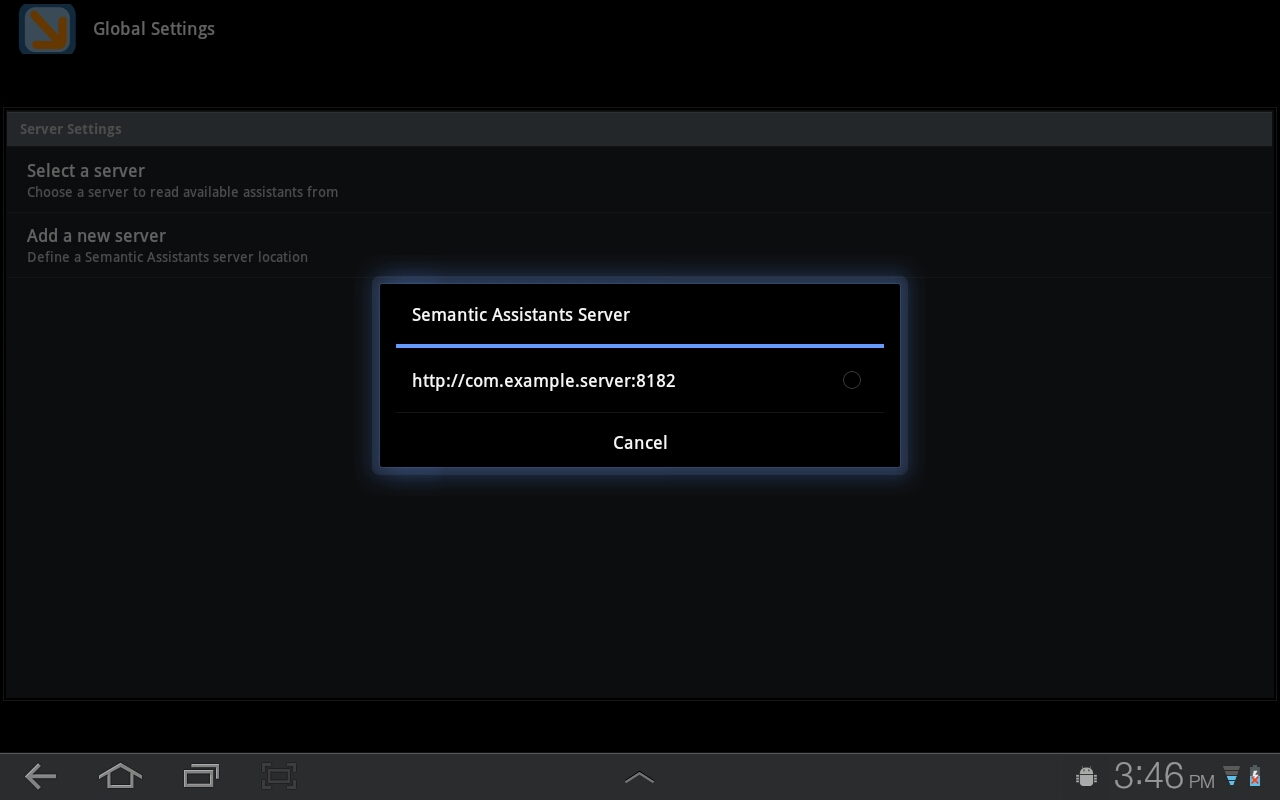
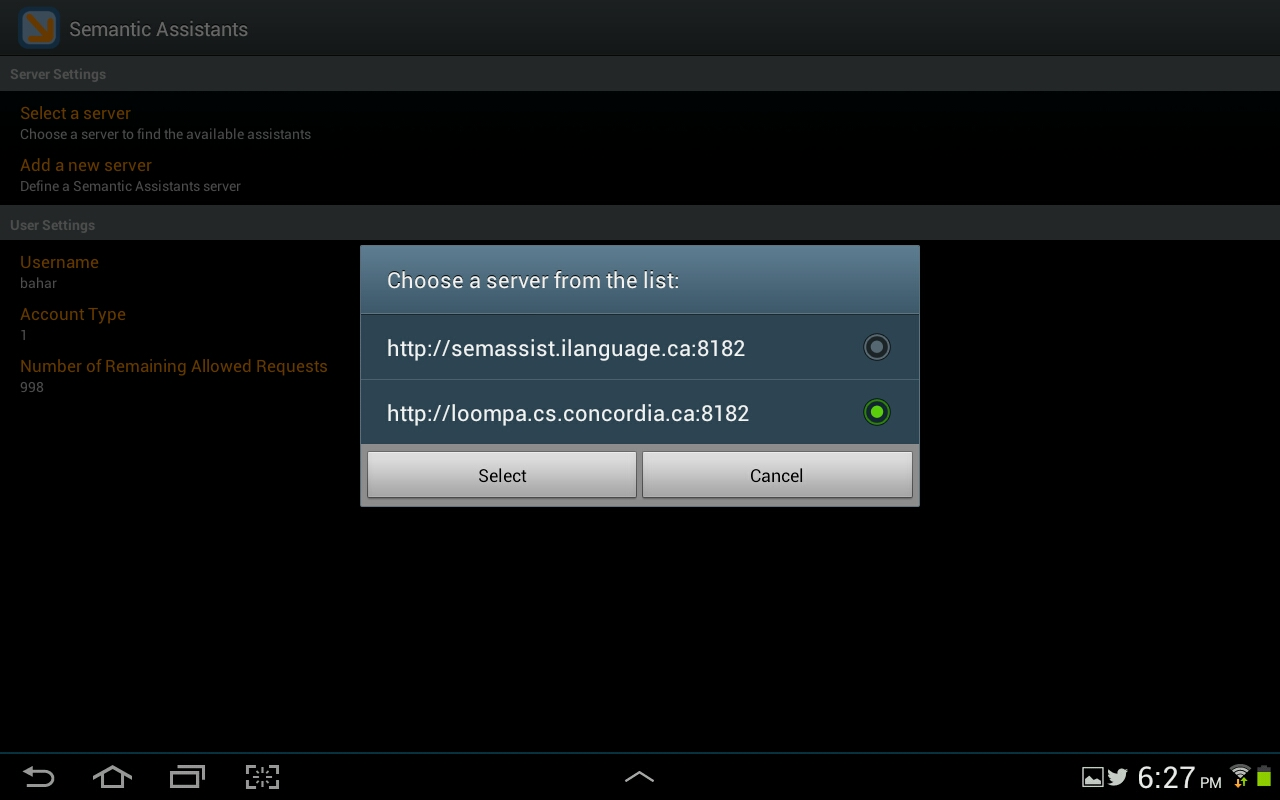
Updated screenshots, added installations details #369

diff --git a/Doc/semassist_android.tex b/Doc/semassist_android.tex
@@ -24,14 +24,14 @@ In the following sections, we describe the \sa App features and provide a guide 
 \section{Features}
 The user interface shown in Figure~\ref{fig:android_main} is the \sa main activity (user interface). This means that once the app is installed on the device, this is the main entry to the application. It allows users to connect to a specific \sa server and invoke an assistant on the provided text input.
 
-\begin{figure}[htb]
+\begin{figure}
 \centering
 \includegraphics[scale=0.35]{pictures/android_main.jpg}
 \caption{\sa Android App Main Activity}
 \label{fig:android_main}
 \end{figure}
 \subsection{\sa Account}
-Each android-enabled device has at least one built-in account type, i.e., the Google account. Android is designed in such a way that the same account can be registered to a variety of account-based services. For example, the Gmail account that is set up on the Android device is not just used for e-mailing , but for all the Google account-based applications. The same concept applies to the \sa App that uses the \emph{\sa account} type for its applications. Just like another accounts, you first need to sign up for a \sa Account before using the application.
+Each android-enabled device has at least one built-in account type, i.e., the Google account. Android is designed in such a way that the same account can be registered to a variety of account-based services. For example, the Gmail account that is set up on the Android device is not just used for e-mailing , but for all the Google account-based applications, like Picasa. The same concept applies to the \sa App that uses the \emph{\sa account} type for its applications. Just like another accounts, you first need to sign up for a \sa Account before using the application.
 
 Once you have obtained your credentials, on your device browse to \texttt{Settings $\rightarrow$ Accounts and Sync $\rightarrow$ Add Account} and choose the ``\sa'' option from the list. In the provided user interface, type in your \sa accounts credentials and press \texttt{Sign in}. If authenticated successfully, your \sa account will appear in the list of your device accounts.
 
@@ -43,16 +43,16 @@ Once you have obtained your credentials, on your device browse to \texttt{Settin
 \label{sec:android_global_settings}
 Similar to other \sa clients, the \sa App allows users to connect to various arbitrary servers to inquire about their available assistants. On the \sa App main activity, press the \texttt{Global Settings} button. The application settings activity will pop up that allows you to define a new server location or choose one from a list of available servers as shown in Figure~\ref{fig:android_global_settings}.
 
-\begin{figure}[htb]
+\begin{figure}
 \centering
 \includegraphics[scale=0.35]{pictures/android_global_settings.jpg}
 \caption{\sa App Global Settings Activity}
 \label{fig:android_global_settings}
 \end{figure}
 
-In order to add a new server location, click on the \texttt{Add a new server} option and type in the server URL by concatenating the server address, including its protocol and port number, like in Figure~\ref{fig:android_new_server}. In order to choose the newly defined server, choose the \texttt{Select a server} option from the Global Settings activity and select it from the list.
+In order to add a new server location, click on the \texttt{Add a new server} option and type in the server URL including its protocol, as well as the port number, like in Figure~\ref{fig:android_new_server}. In order to choose the newly defined server, choose the \texttt{Select a server} option from the \texttt{Global Settings} activity and select it from the list.
 
-\begin{figure}[htb]
+\begin{figure}[b]
 \centering
 \includegraphics[scale=0.5]{pictures/android_new_server.jpg}
 \caption{Adding a new server to the \sa App settings}
@@ -60,7 +60,7 @@ In order to add a new server location, click on the \texttt{Add a new server} op
 \end{figure}
 
 \subsection{NLP Service Invocation}
-Once the \sa server is selected from the Global Settings activity, users can inquire about its available assistants. From the \sa App main activity, press the \texttt{Available Assistants} button to open the service invocation activity. This activity, as shown in Figure~\ref{fig:android_invoke_main}, presents the list of available assistants and an input text area for the text to be analyzed. By selecting each assistants from the list, the app will provide detailed information of what the assistant does and allows to customize the pipeline execution through providing runtime parameters.
+Once the \sa server is selected from the Global Settings activity, users can inquire about its available assistants. From the \sa App main activity, press the \texttt{Available Assistants} button to open the service invocation activity. This activity, as shown in Figure~\ref{fig:android_invoke_main}, presents the list of available assistants and an input text area for the text to be analyzed. By selecting each assistant from the list, the app will provide detailed information of what the assistant does and allows you to customize the pipeline execution through modifying the runtime parameters.
 
 \begin{figure}[htb]
 \centering
@@ -71,20 +71,33 @@ Once the \sa server is selected from the Global Settings activity, users can inq
 
 Users have three options on how to provide a pipeline with text input:
 \begin{itemize}
-\item{\textbf{Manually typing in the text. }}{Using the device keyboard, type in the text that is to be analyzed.}
-\item{\textbf{Sharing text with the \sa from other apps. }}{The \sa App listens for sharing event in the Android platform. This means that from within applications that provide a sharing mechanism, the selected text can be directly placed into the \sa Apps activity input.}
-\item{\textbf{Sending input to the \sa service. }}{As we will explain more in Section \ref{sec:android_service}, the text input can be sent via a service argument (extra). The difference between this option and the previous bullet is that in the sharing option, the \sa App takes care of the result handling instead of the invoking application. Also in this service invocations, the NLP service to be executed is pre-defined and cannot be changed at a later stage.}
+\item{\textbf{Manually typing in the text. }}{Using the device keyboard, type in the text that is to be analyzed, then invoke the desired assistant from the list.}
+\item{\textbf{Sharing text with the \sa from other apps. }}{The \sa App listens for sharing event in the Android platform. This means that from within applications that provide a sharing mechanism, the selected text can be directly placed into the \sa Apps activity input.
+
+In this option, copy the text you would like to analyze and choose the \texttt{Share} item from the contextual menu of the system. Then select the \texttt{Semantic Assistants} as the recipient of the shared text.}
+\item{\textbf{Sending input to the \sa service. }}{As we will explain more in Section \ref{sec:android_service}, the text input can be sent via a service argument (i.e., an Android \texttt{Extra} object). The difference between this option and the previous bullet is that in the sharing option, the \sa App takes care of the result handling instead of the application that originally requested the service. Also in this service invocation option, the NLP service to be executed is pre-defined (by the requesting app) and cannot be changed at a later stage.}
 \end{itemize}
-Once done with typing, select an assistants from the left-side list and press the \texttt{Invoke} button. Depending on the type of the results, you would either see the annotations in a new activity or the resulting file will be opened in the device browser.
+Once you selected the text for analysis, select an assistants from the left-side list and press the \texttt{Invoke} button to start the service execution. Depending on the type of the results, you would either see the annotations in a new activity or the resulting file will be opened in the device browser.
 
 \section{Installation}
-TBD
+The \sa app can be installed directly on your Android device through the Google Play store\footnote{Google Play Store~\url{https://play.google.com/store}} website. Browse to \url{https://play.google.com/store/apps/details?id=info.semanticsoftware.semassist.android} and press the ``Install'' button to download the app on to your device.
+
+Alternatively, you can download the signed \texttt{.apk} file from our public repository and copy it to your device, e.g. on your SD card. Then open the file in your device's file browser; the system will prompt you to install the app.
 
 \section{\sa App Service}
 \label{sec:android_service}
-As mentioned earlier, the \sa App also plays the role of a system-wide service provider, meaning that other external applications can use the \sa App's functionality. This is done through using Android services, i.e., application components that can perform long-running operations in the background. Each available service in the \sa App has a unique name that should be indicated when the external application invokes the service.
+As mentioned earlier, the \sa App also plays the role of a system-wide service provider, meaning that other external applications can use the \sa App's functionalities in their workflow. This is done through using Android \emph{services}, i.e., application components that can perform long-running operations in the background. Each available service in the \sa App has a unique name that should be indicated when the external application invokes the service.
 
-To better demonstrate this feature, we will illustrate a demo app that uses a \sa service. The demo in example, called iForgotWho, is an app that helps users to find potential ``contacts'' from a given text and upon user accept, automatically adds them to the device contact book. However, the iForgotWho app does not find the contacts by itself, rather it uses the \sa App's \texttt{person\_extractor} service. For this, the iForgotWho needs to (1) invoke the service using its complete identifier (available in the \sa App manifest file), (2) send along the text to be analyzed, and (3) indicate whether the \sa App should present the results or iForgotWho takes care of it. Once all the data is provided to the \sa App, the NLP service is executed and the results are passed back to iForgotWho app. Then, iForgotWho presented the list of all the person entities found in the text to the user, whom which ultimately decide whether they should be added to the device contact book. Figure~\ref{fig:android_service} illustrates this sequence.
+To better demonstrate this feature, we will illustrate a demo app that uses a \sa service. The demo in example, called iForgotWho, is an app that helps users to find potential \emph{contacts} from a given text and upon the user's acceptance, automatically adds them to the device's contact book. 
+
+However, the iForgotWho app does not find the contacts by itself, rather it uses the \sa App's \texttt{person\_extractor} service. For this, the iForgotWho needs to:
+\begin{enumerate}
+\item invoke the \texttt{person\_extractor} service using its complete identifier (available in the \sa App manifest file);
+\item send along the text to be analyzed; and
+\item indicate whether the \sa App should present the results or the application itself will tak care of it, by initializing the \texttt{SILENT\_MODE} argument when making the service call.
+\end{enumerate}
+
+Once all the data is provided to the \sa App, the NLP service is executed and the results are passed back to iForgotWho app. Then, iForgotWho presents the list of all the person entities found in the text to the user, whom which ultimately decides whether they should be added to the contact book. 
 
 \section{Development Notes}
 In this section, we provide technical notes about the \sa App and how external Android application developers can integrate NLP capabilities in their apps using the \sa services.

diff --git a/Doc/semassist.tex b/Doc/semassist.tex
@@ -214,8 +214,8 @@ the distribution files or the Jena\footnote{Jena License and
 \input{semassist_wiki}
 \input{semassist_liferay}
 
-%\part{SA Embedded \& Mobile}
-%\input{semassist_android}
+\part{SA Embedded \& Mobile}
+\input{semassist_android}
 
 \part{SA Server}
 \input{semassist_server}
